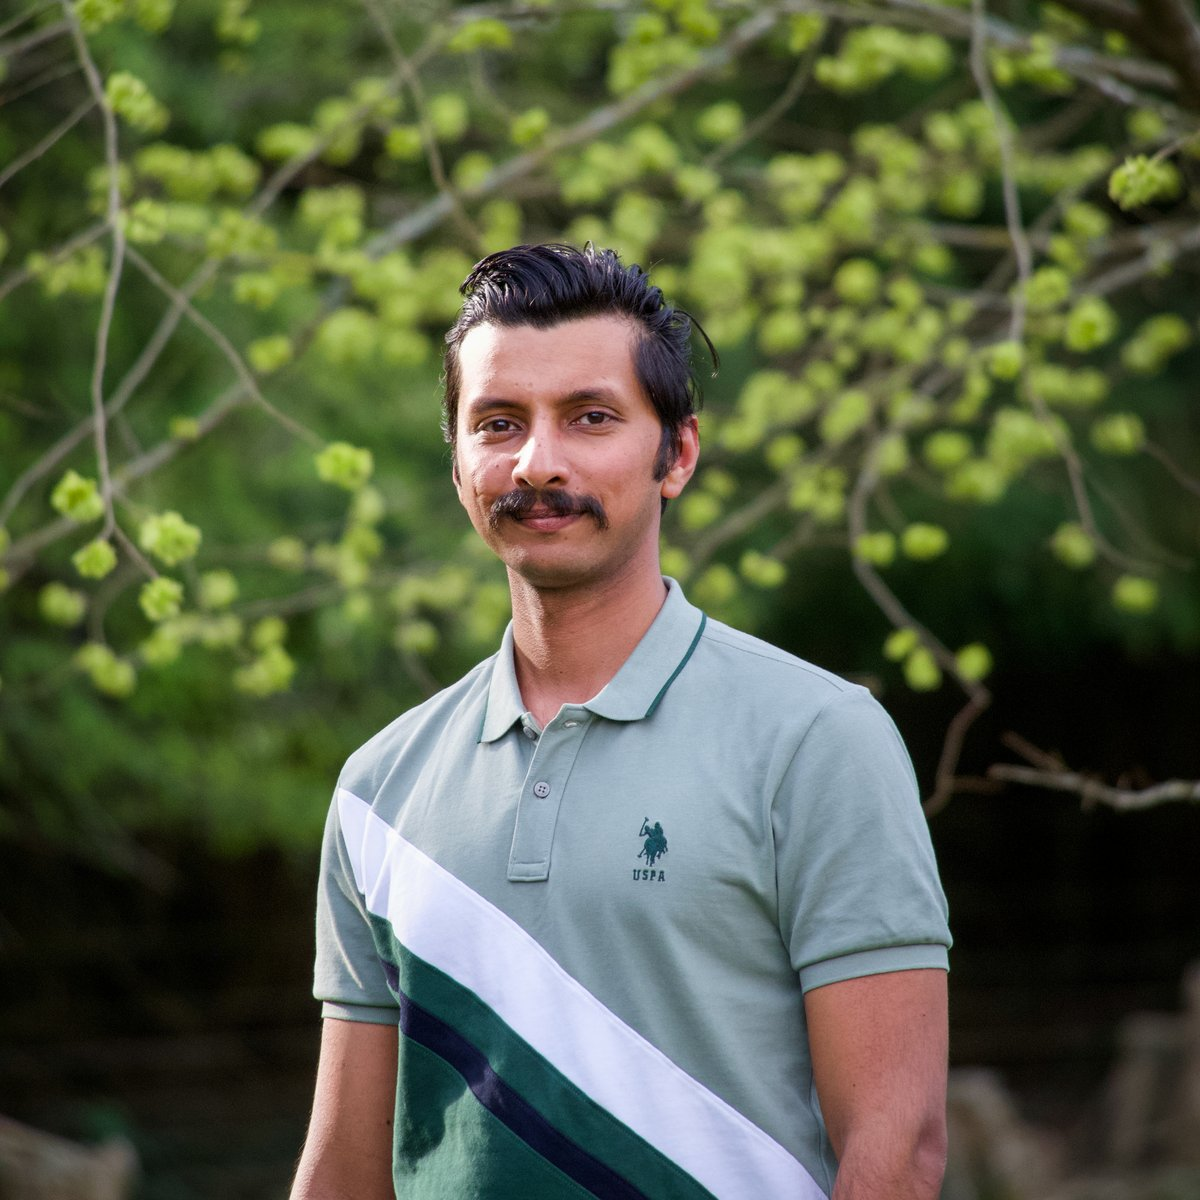
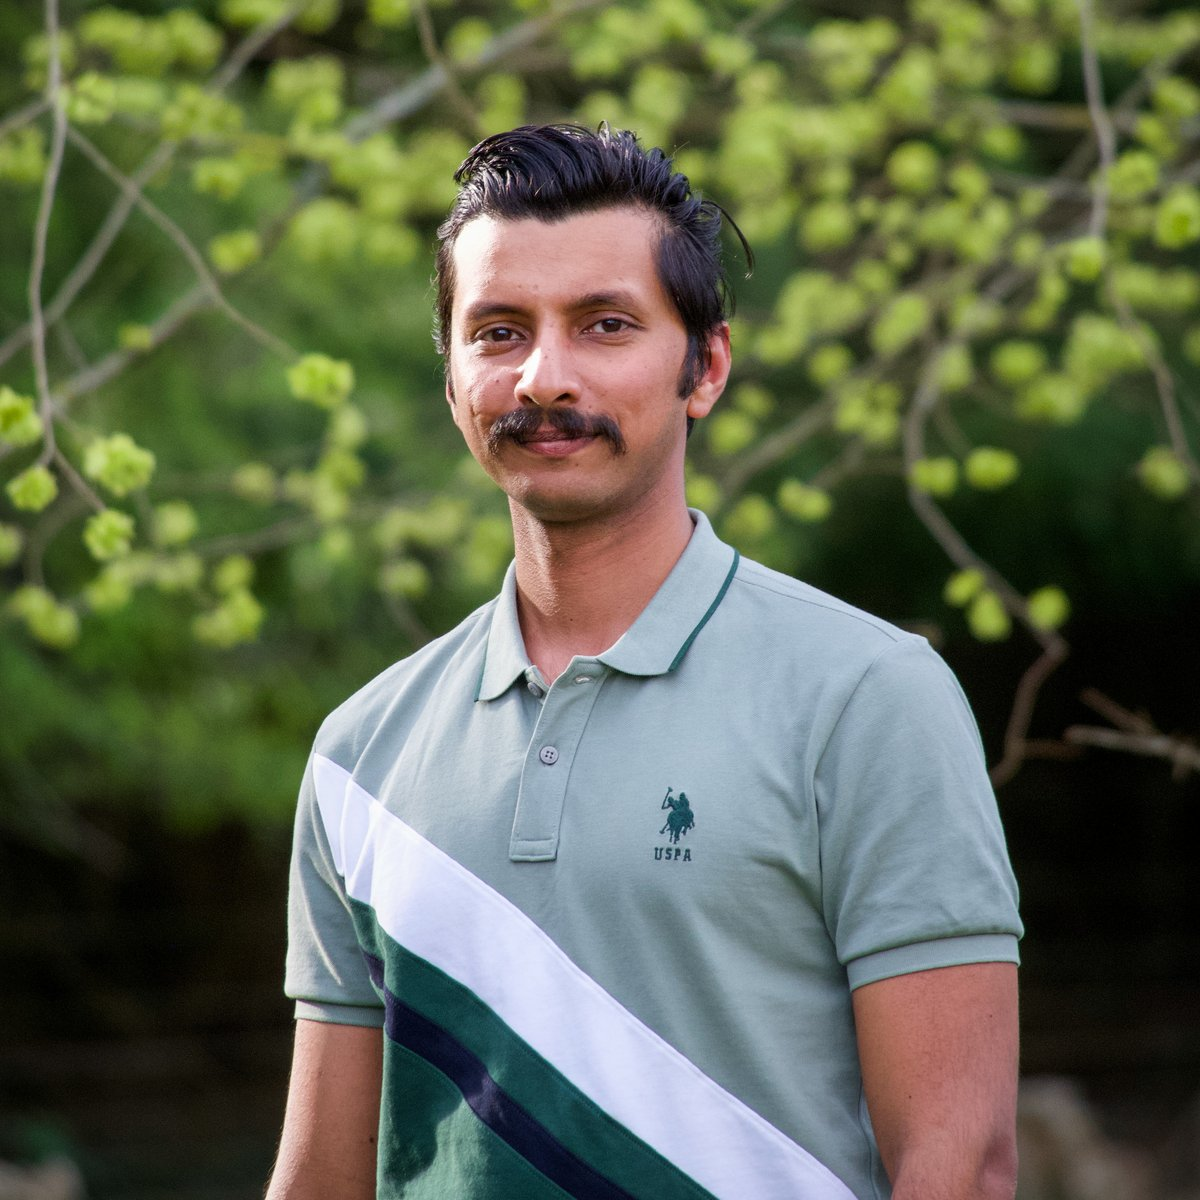
Re-crop Boby photo to match Harriet; equal-height people cards

diff --git a/assets/css/theme.css b/assets/css/theme.css
@@ -4110,6 +4110,23 @@ section.pricing-plans {
     overflow: hidden;
   }
 
+  /* Equal-height people cards within each row */
+  #our-people .item {
+    height: 100%;
+    display: flex;
+    flex-direction: column;
+  }
+
+  #our-people .thumbnail-box {
+    flex: 1;
+    display: flex;
+    flex-direction: column;
+  }
+
+  #our-people .thumbnail-box-caption {
+    flex: 1;
+  }
+
   .thumbnail-box-caption {
     background-color: #fff;
     padding: 2rem 1.5rem;
